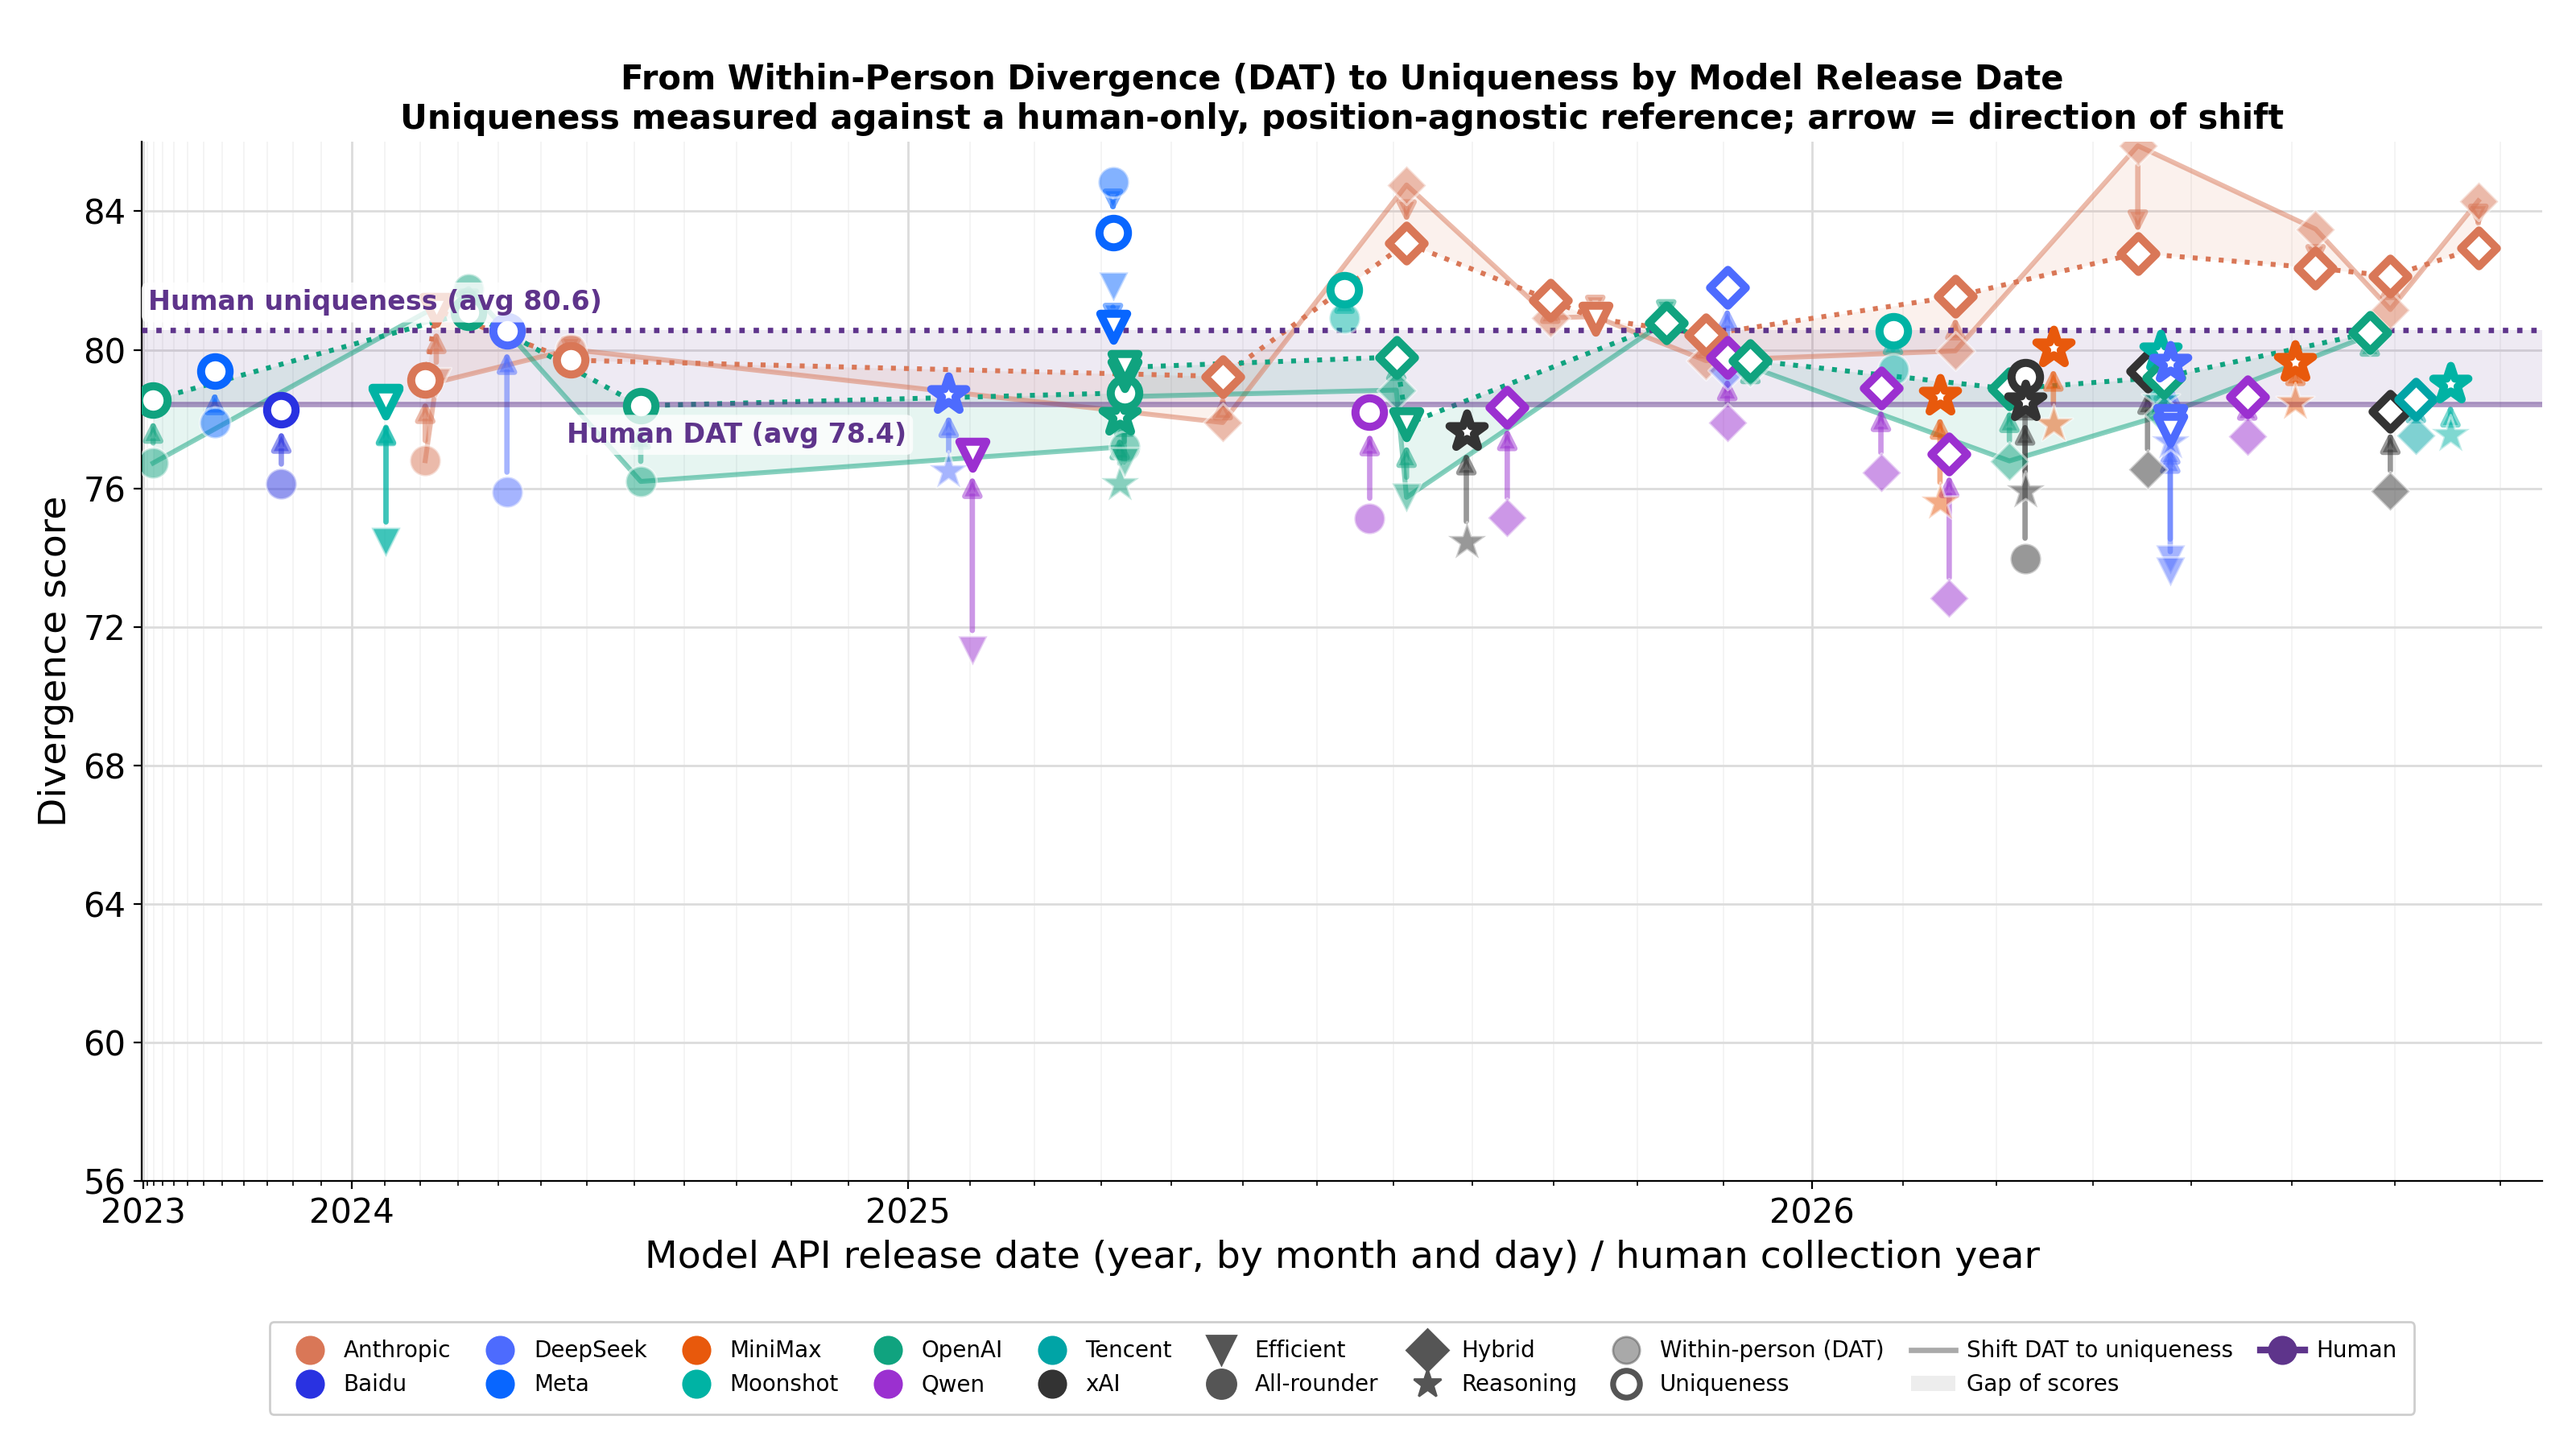
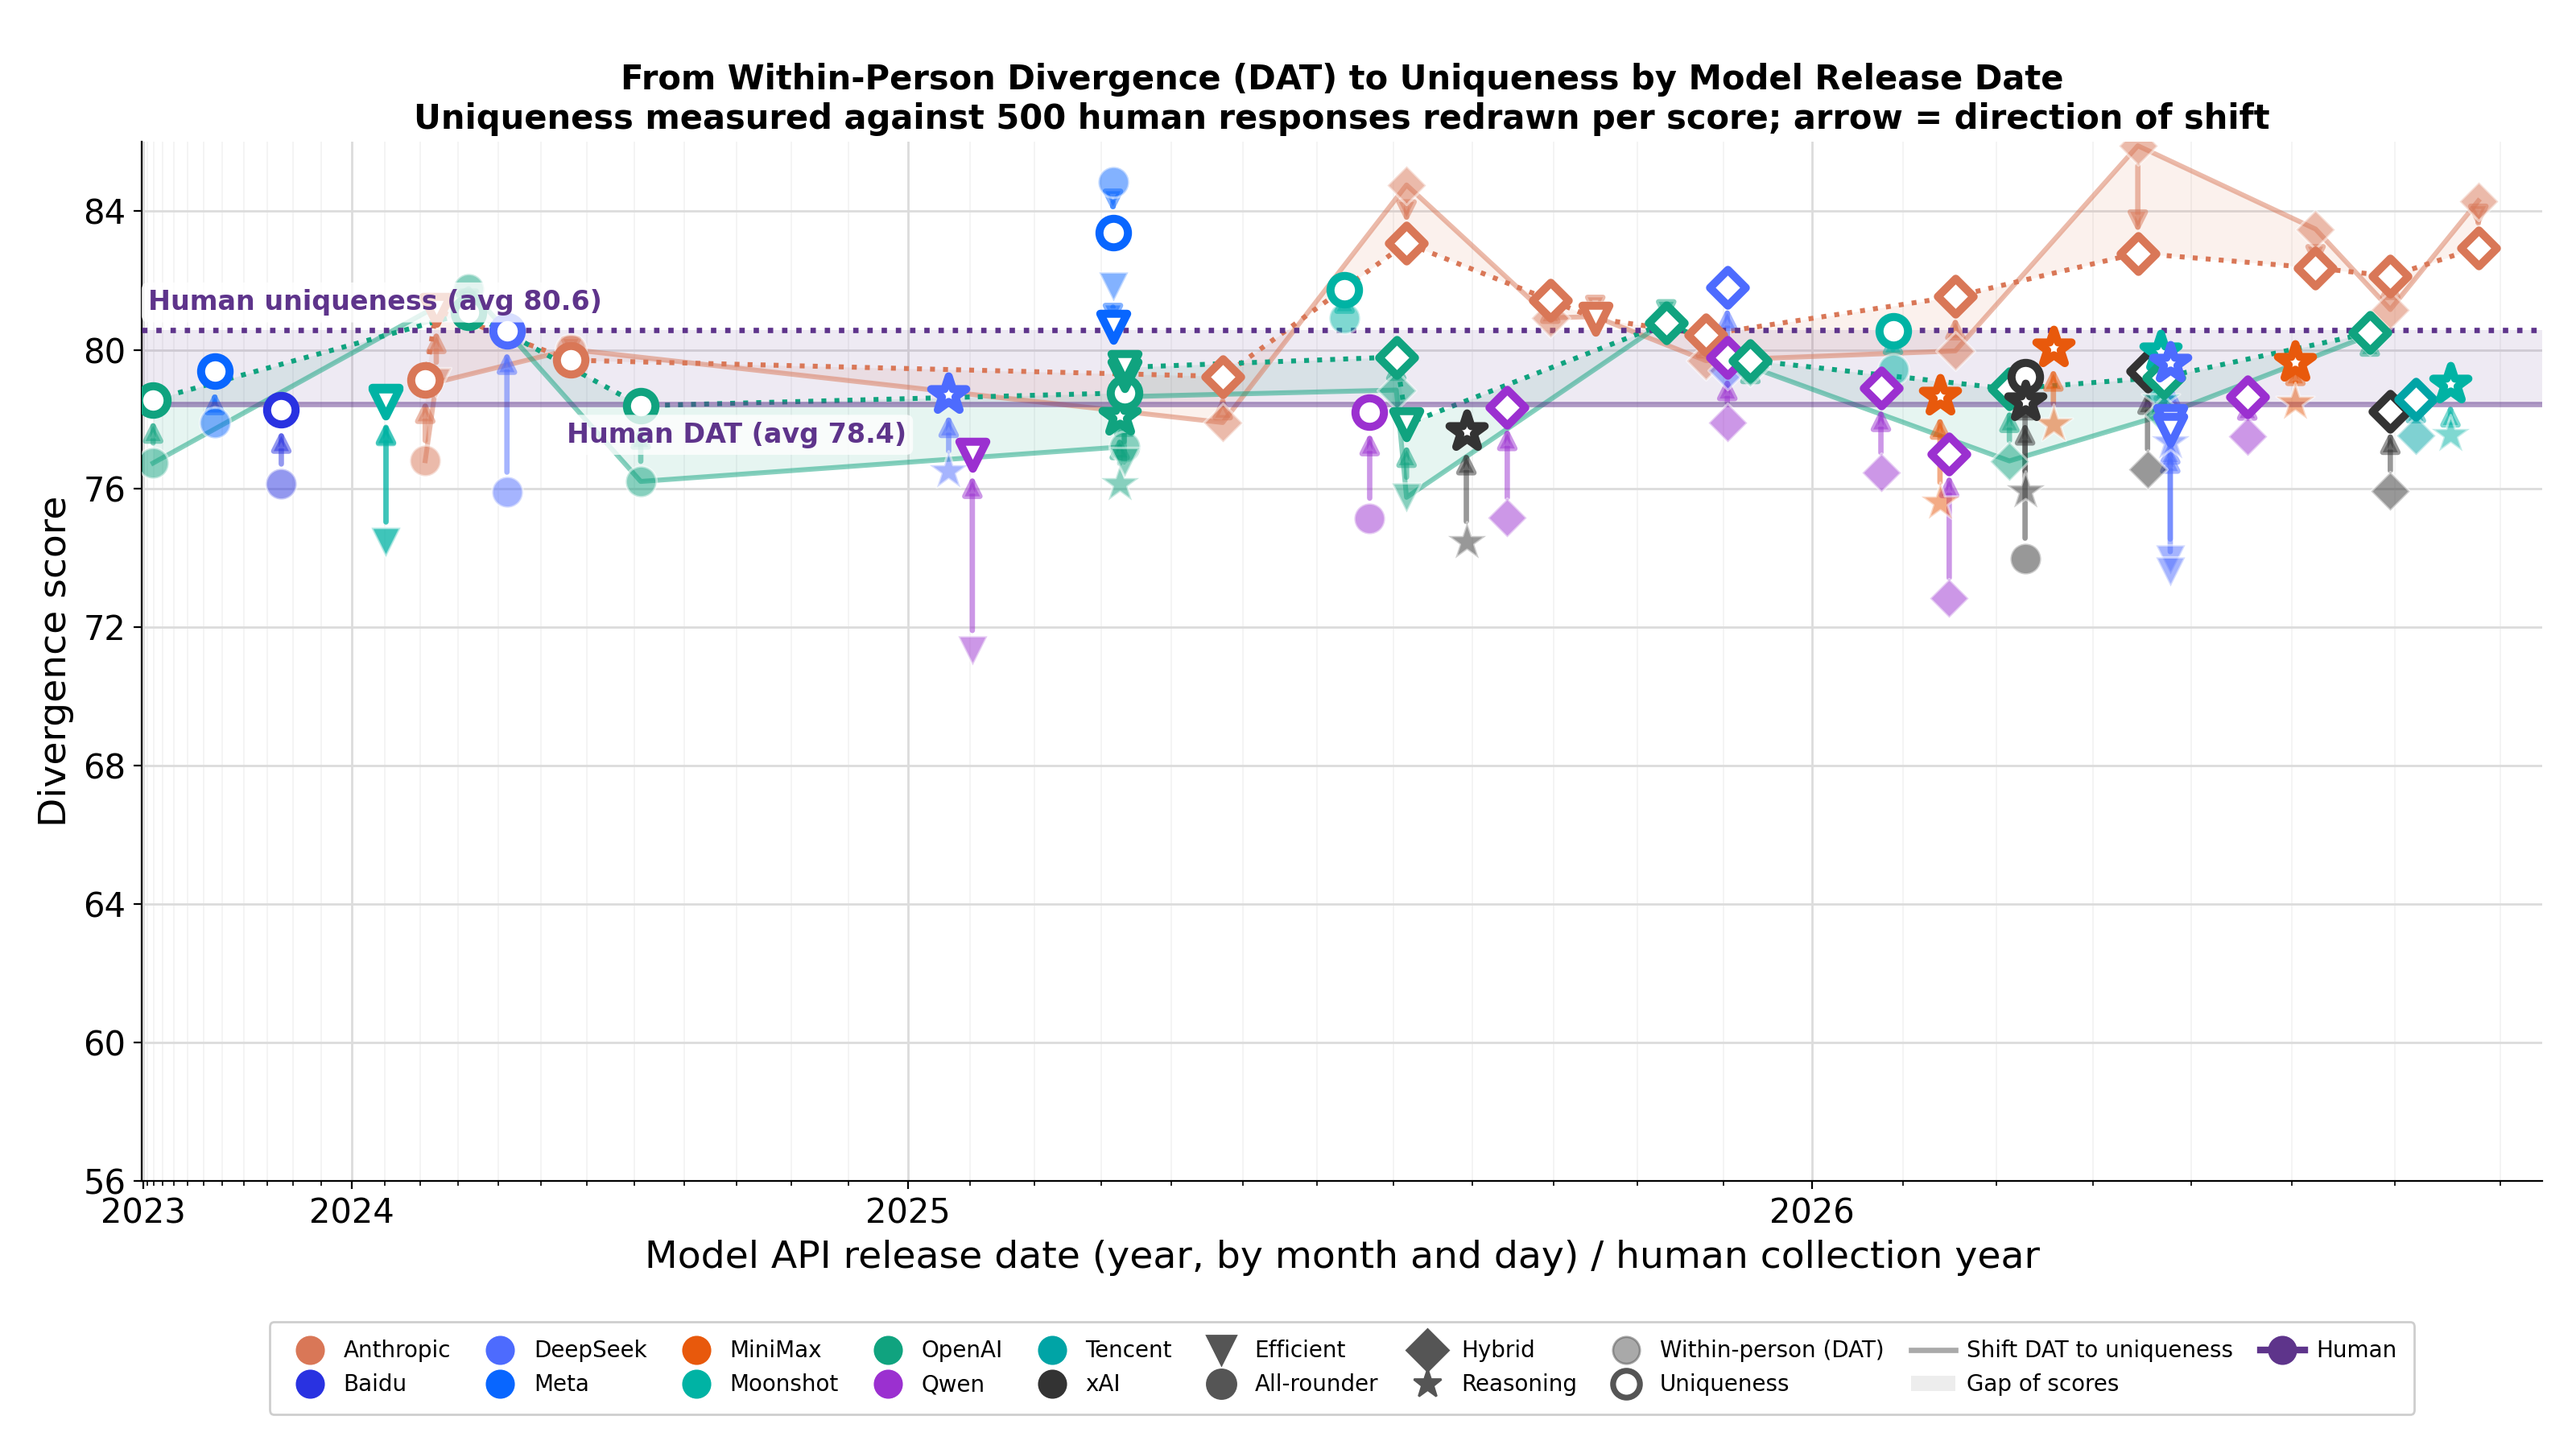
Describe the resampled reference in the figure subtitles
The uniqueness figures still said 'position-agnostic reference pool'. They now say the score is
measured against 500 human responses redrawn per score. Shortened to fit the canvas - the first
wording overran the right edge.

Changed region(s): [[0.1562, 0.0622, 0.875, 0.0933]]

diff --git a/analysis/fig3_uniqueness_only.py b/analysis/fig3_uniqueness_only.py
@@ -1,6 +1,6 @@
 """Uniqueness alone (no DAT reference), by model release date.
 
-Uniqueness = distance from a position-agnostic, HUMAN-ONLY reference pool.
+Uniqueness = distance from 500 HUMAN responses redrawn at random for every score.
 """
 from overtime_style import *
 dat,uniq,H_DAT,H_UNIQ,models=load_uniq(); xmin,xmax=limits(dat,models)
@@ -9,7 +9,7 @@ lineages(ax,dat,uniq,models,'between')
 human_lines(ax,xmin,xmax,H_DAT,H_UNIQ,show_dat=False,show_btw=True)
 between_markers(ax,dat,uniq,models)
 frame(ax,xmin,xmax,"Uniqueness by Model Release Date\n"
-                   "Distance from a human-only, position-agnostic reference; purple dotted = human baseline; lines = OpenAI and Claude")
+                   "Distance from 500 human responses redrawn per score; purple dotted = human baseline; lines = OpenAI and Claude")
 legend(ax,dat,models,[Line2D([0],[0],marker='o',ls='none',markerfacecolor='white',markeredgecolor='#555',
                              markeredgewidth=2.6,ms=12,label='Uniqueness'),
                       Line2D([0],[0],color=HUMAN_PURPLE,lw=3,ls=':',marker='o',ms=12,label='Human')],

diff --git a/analysis/fig2_uniqueness_with_dat.py b/analysis/fig2_uniqueness_with_dat.py
@@ -1,6 +1,6 @@
 """Uniqueness WITH the DAT reference, by model release date.
 
-Uniqueness = distance from a position-agnostic, HUMAN-ONLY reference pool.
+Uniqueness = distance from 500 HUMAN responses redrawn at random for every score.
 Transparent filled markers are the model's DAT score, open markers its uniqueness, and the
 arrow shows the direction of the shift between the two.
 """
@@ -13,7 +13,7 @@ shift_arrows(ax,dat,uniq,models)
 dat_markers(ax,dat,models,alpha=0.50)
 between_markers(ax,dat,uniq,models)
 frame(ax,xmin,xmax,"From Within-Person Divergence (DAT) to Uniqueness by Model Release Date\n"
-                   "Uniqueness measured against a human-only, position-agnostic reference; arrow = direction of shift")
+                   "Uniqueness measured against 500 human responses redrawn per score; arrow = direction of shift")
 legend(ax,dat,models,[
     Line2D([0],[0],marker='o',ls='none',color='#555',alpha=0.50,ms=12,label='Within-person (DAT)'),
     Line2D([0],[0],marker='o',ls='none',markerfacecolor='white',markeredgecolor='#555',markeredgewidth=2.6,ms=12,label='Uniqueness'),
